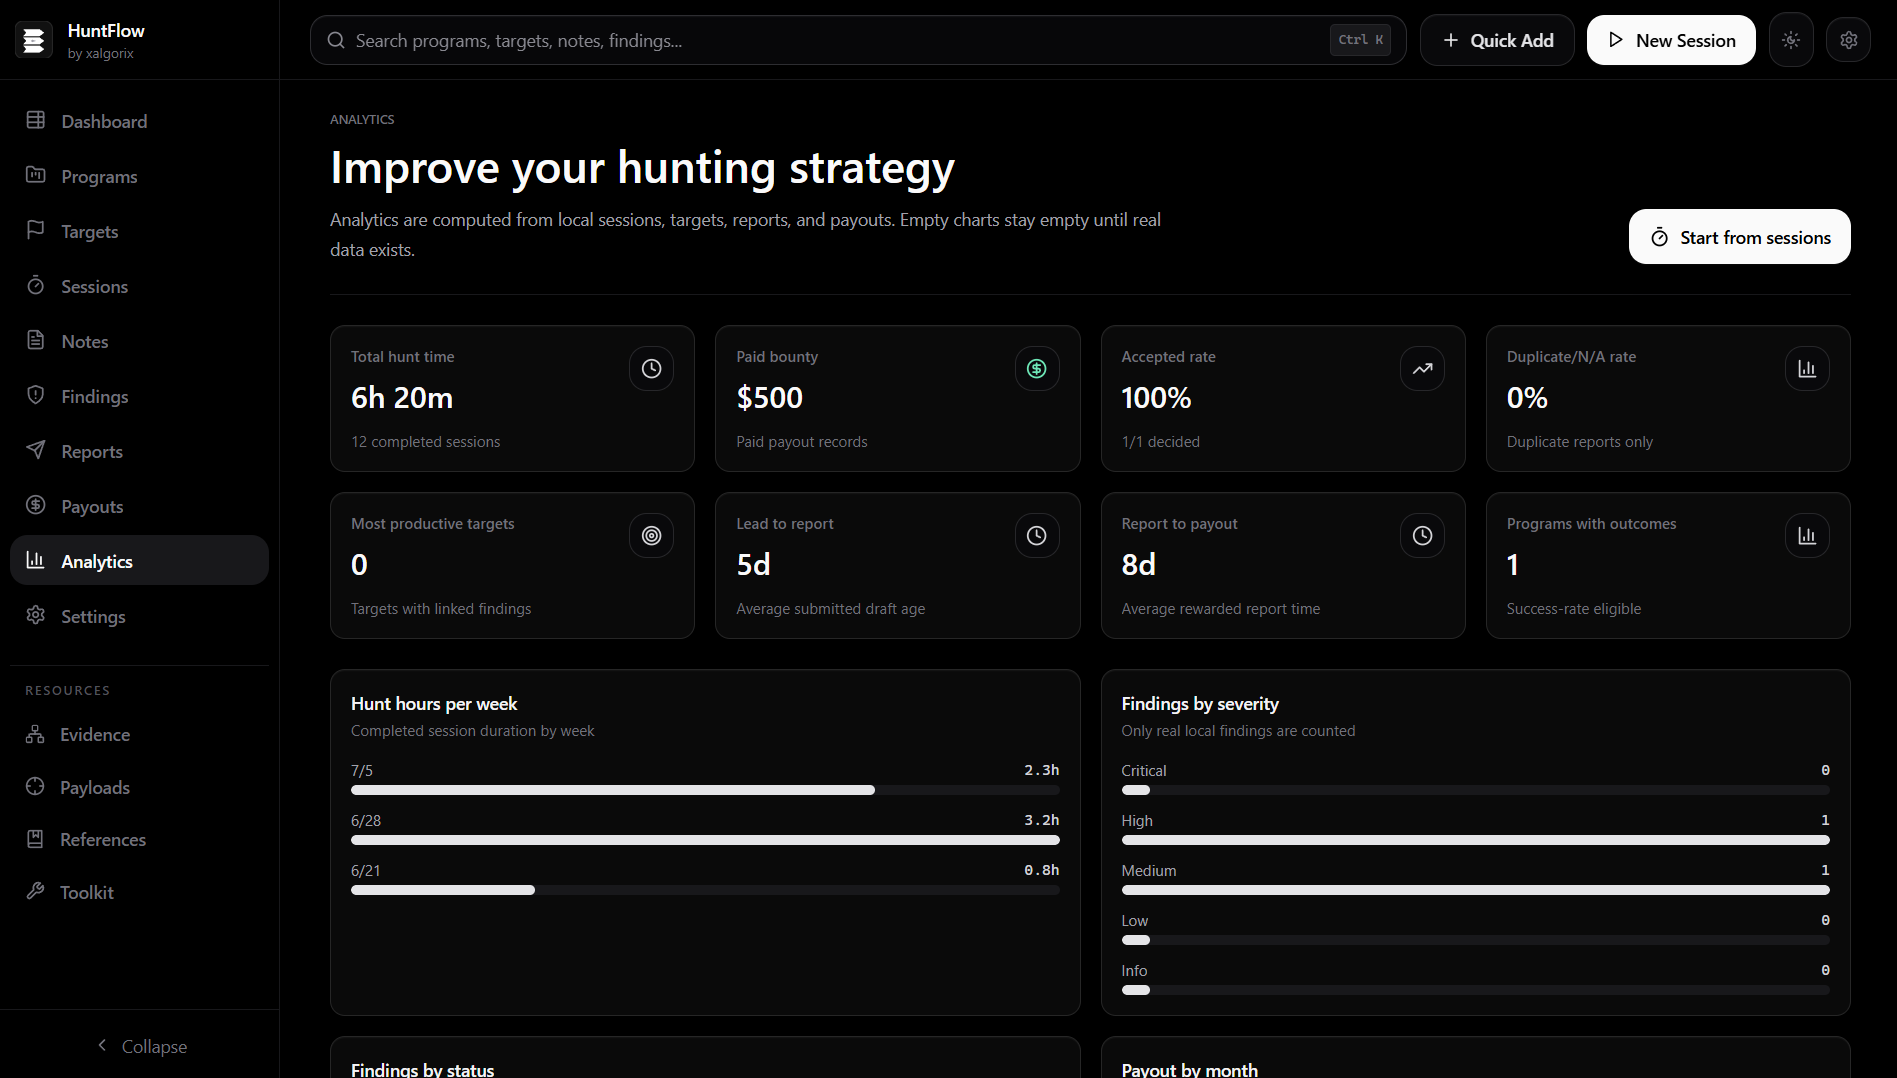
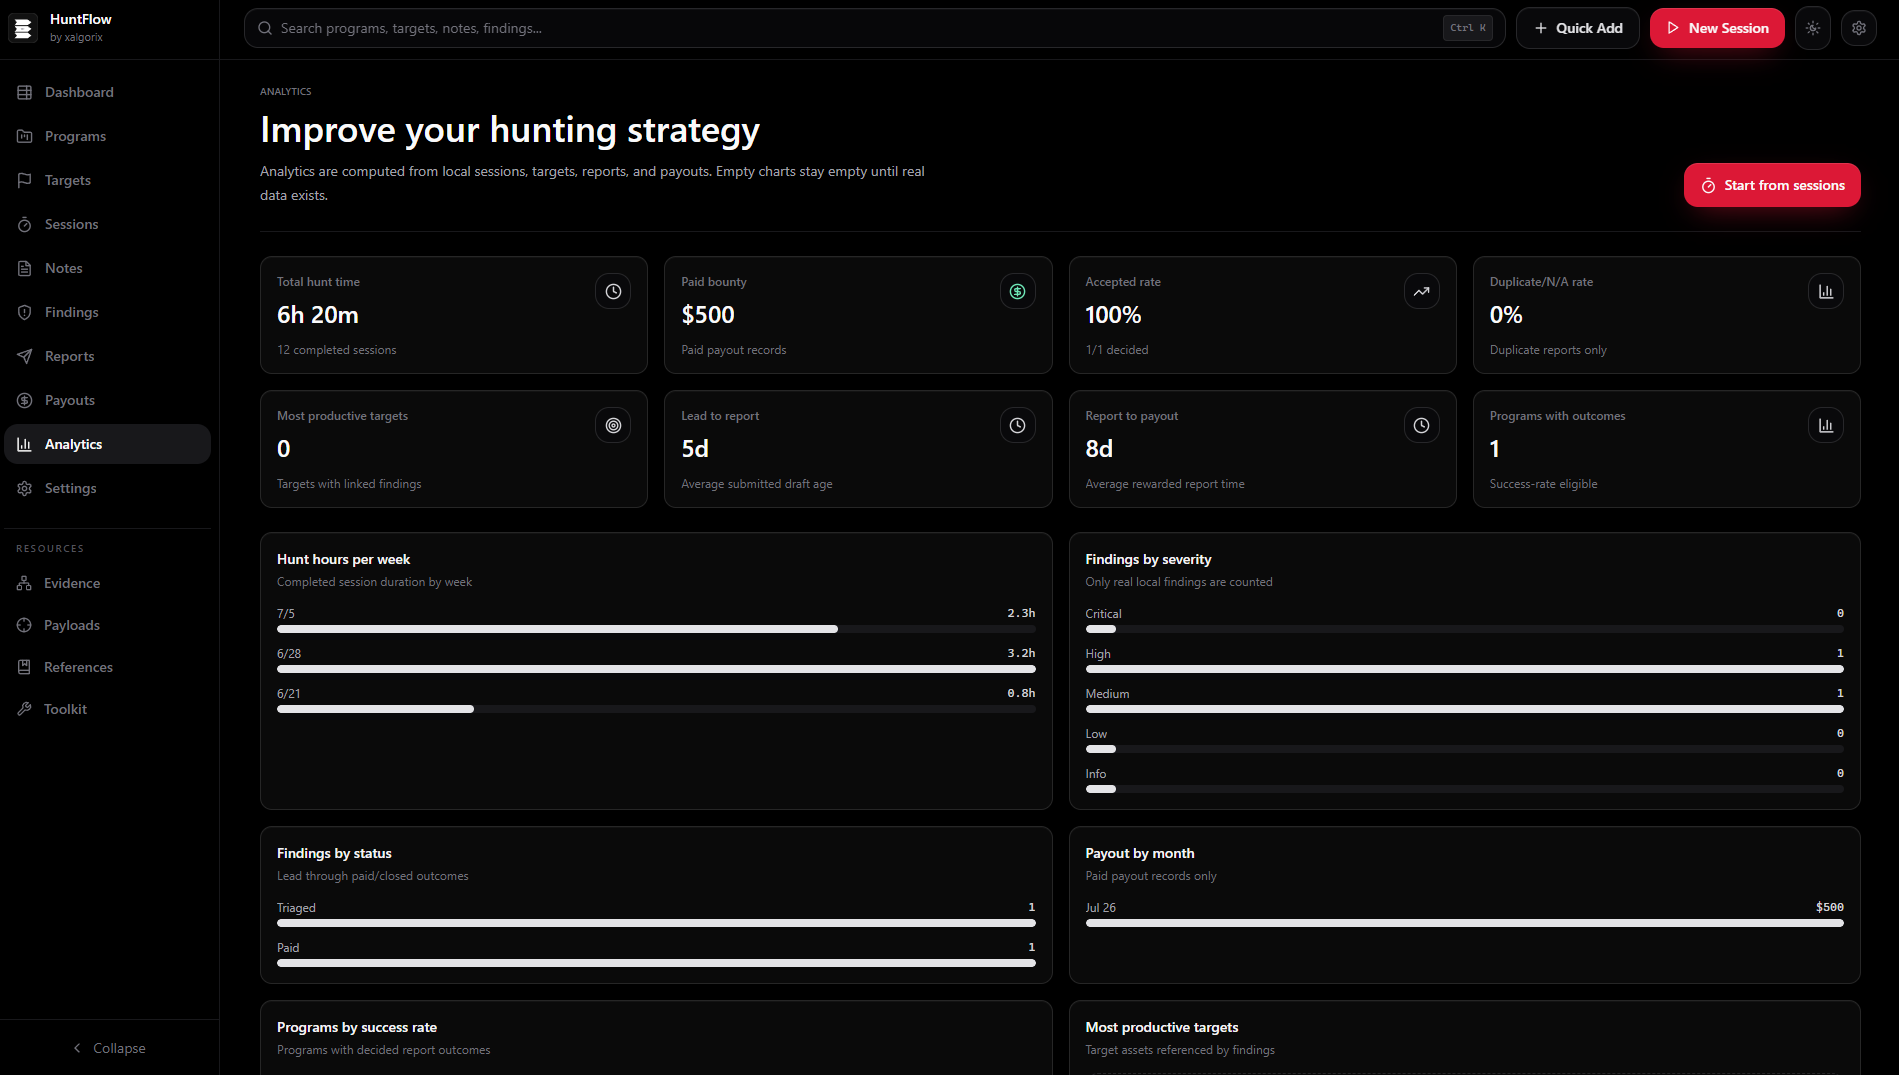
docs: refresh product screenshots and expand README gallery
Replace all 14 served screenshots under static/screenshots/ with the
updated captures. These are the same files the marketing carousel loads
(/screenshots/<id>.png via ScreenshotShowcase) and the README/npm README
hot-link (https://huntflow.xalgorix.com/screenshots/*.png), so the new
images flow to every surface once the site is deployed.

Also expand the README screenshot gallery from 5 to 13 shots, ordered by
the testing workflow: dashboard, targets/sessions, notes/evidence,
payloads/toolkit, reports/findings, analytics/payouts, programs/reference.

diff --git a/README.md b/README.md
@@ -47,13 +47,29 @@ npx huntflow --port 4000
 
 ![HuntFlow dashboard](https://huntflow.xalgorix.com/screenshots/dashboard.png)
 
-| Targets | Notes |
+| Targets | Sessions |
 | --- | --- |
-| ![Targets](https://huntflow.xalgorix.com/screenshots/targets.png) | ![Notes](https://huntflow.xalgorix.com/screenshots/notes.png) |
+| ![Targets](https://huntflow.xalgorix.com/screenshots/targets.png) | ![Sessions](https://huntflow.xalgorix.com/screenshots/sessions.png) |
 
-| Evidence | Findings |
+| Notes | Evidence |
 | --- | --- |
-| ![Evidence](https://huntflow.xalgorix.com/screenshots/evidence.png) | ![Findings](https://huntflow.xalgorix.com/screenshots/findings.png) |
+| ![Notes](https://huntflow.xalgorix.com/screenshots/notes.png) | ![Evidence](https://huntflow.xalgorix.com/screenshots/evidence.png) |
+
+| Payloads | Toolkit |
+| --- | --- |
+| ![Payloads](https://huntflow.xalgorix.com/screenshots/payloads.png) | ![Toolkit](https://huntflow.xalgorix.com/screenshots/toolkit.png) |
+
+| Reports | Findings |
+| --- | --- |
+| ![Reports](https://huntflow.xalgorix.com/screenshots/reports.png) | ![Findings](https://huntflow.xalgorix.com/screenshots/findings.png) |
+
+| Analytics | Payouts |
+| --- | --- |
+| ![Analytics](https://huntflow.xalgorix.com/screenshots/analytics.png) | ![Payouts](https://huntflow.xalgorix.com/screenshots/payouts.png) |
+
+| Programs | Reference |
+| --- | --- |
+| ![Programs](https://huntflow.xalgorix.com/screenshots/programs.png) | ![Reference](https://huntflow.xalgorix.com/screenshots/reference.png) |
 
 ## License
 
